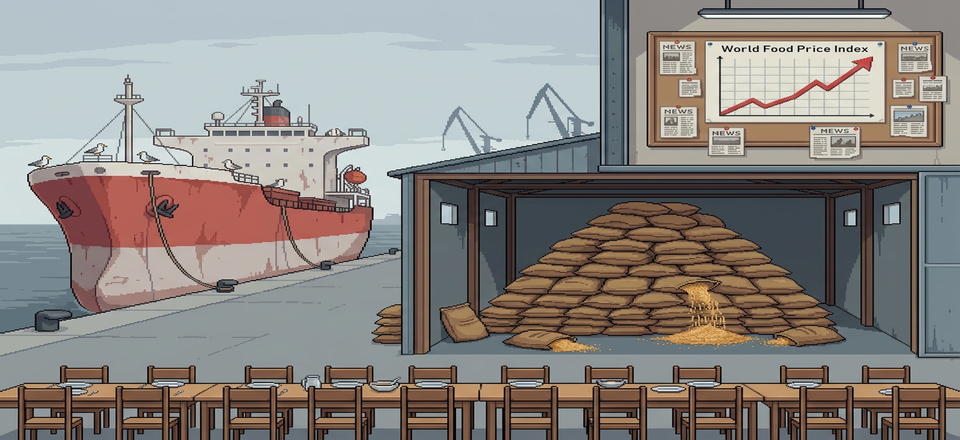
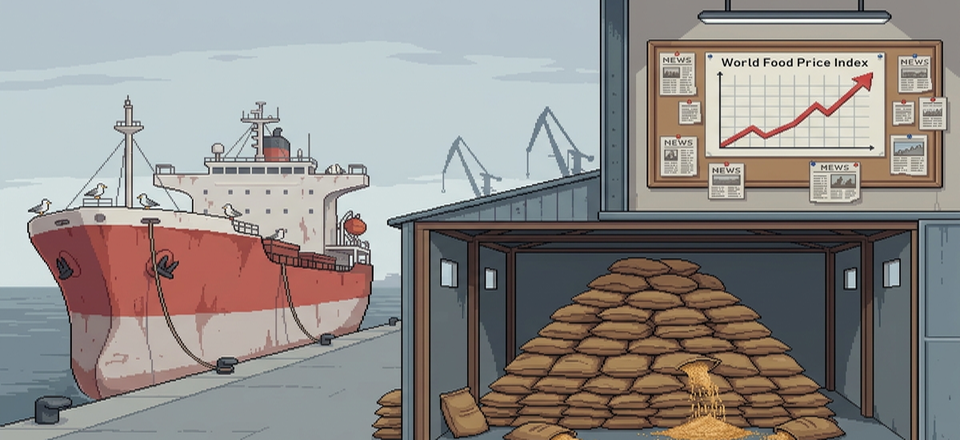
오데사 곡물 항구 단서 정리 — 식탁(노동자 식당) 단서 삭제 + 사진 식탁 제거
- cases.js ukraine.port: 전체폭(960px) strip이던 '빈 항구 노동자 식당'
  (workers/기다림의 사람들) 단서 삭제 → 이 항구는 단서 3개(곡물선·곡식
  자루·식량가격 게시판). "아무 데나 클릭하면 단서" 문제 해소.
- photo_grain_port.png: 하단 식탁 밴드(약 96px) 크롭 후 960x440로 복원해
  식탁이 화면에 안 나오게.
- 점수 영향 없음: cooperation=corridor/aid라 무관, cognition 만점도 도달 가능.
- sw.js v180 → v181

diff --git a/src/cases.js b/src/cases.js
@@ -277,15 +277,6 @@ const CASES = {
               id: 'global', name: '멀리까지 미친 충격', area: 'cognitive',
               desc: '곡물선이 멈추자 아프리카·중동의 빵 값이 두 배로 뛰었다. 한 항구의 정지가 한 대륙의 식탁을 흔든다.'
             }
-          },
-          {
-            x: 0, y: 360, w: 960, h: 80,
-            name: '빈 항구 노동자 식당',
-            text: '식당 안에 식탁 의자가 가지런히 놓여 있지만 사람은 없다. 일이 멈추면 일하는 사람의 삶도 멈춘다.',
-            evidence: {
-              id: 'workers', name: '기다림의 사람들', area: 'emotional',
-              desc: '항구에서 일하던 수만 명의 노동자가 일자리를 잃었다. 협상이 진행되는 동안 그들의 시간도 멈춰 있다.'
-            }
           }
         ],
         moves: [

diff --git a/sw.js b/sw.js
@@ -1,4 +1,4 @@
-const CACHE = 'vanished-sea-v180';
+const CACHE = 'vanished-sea-v181';
 const PRECACHE = [
   './',
   './index.html',
